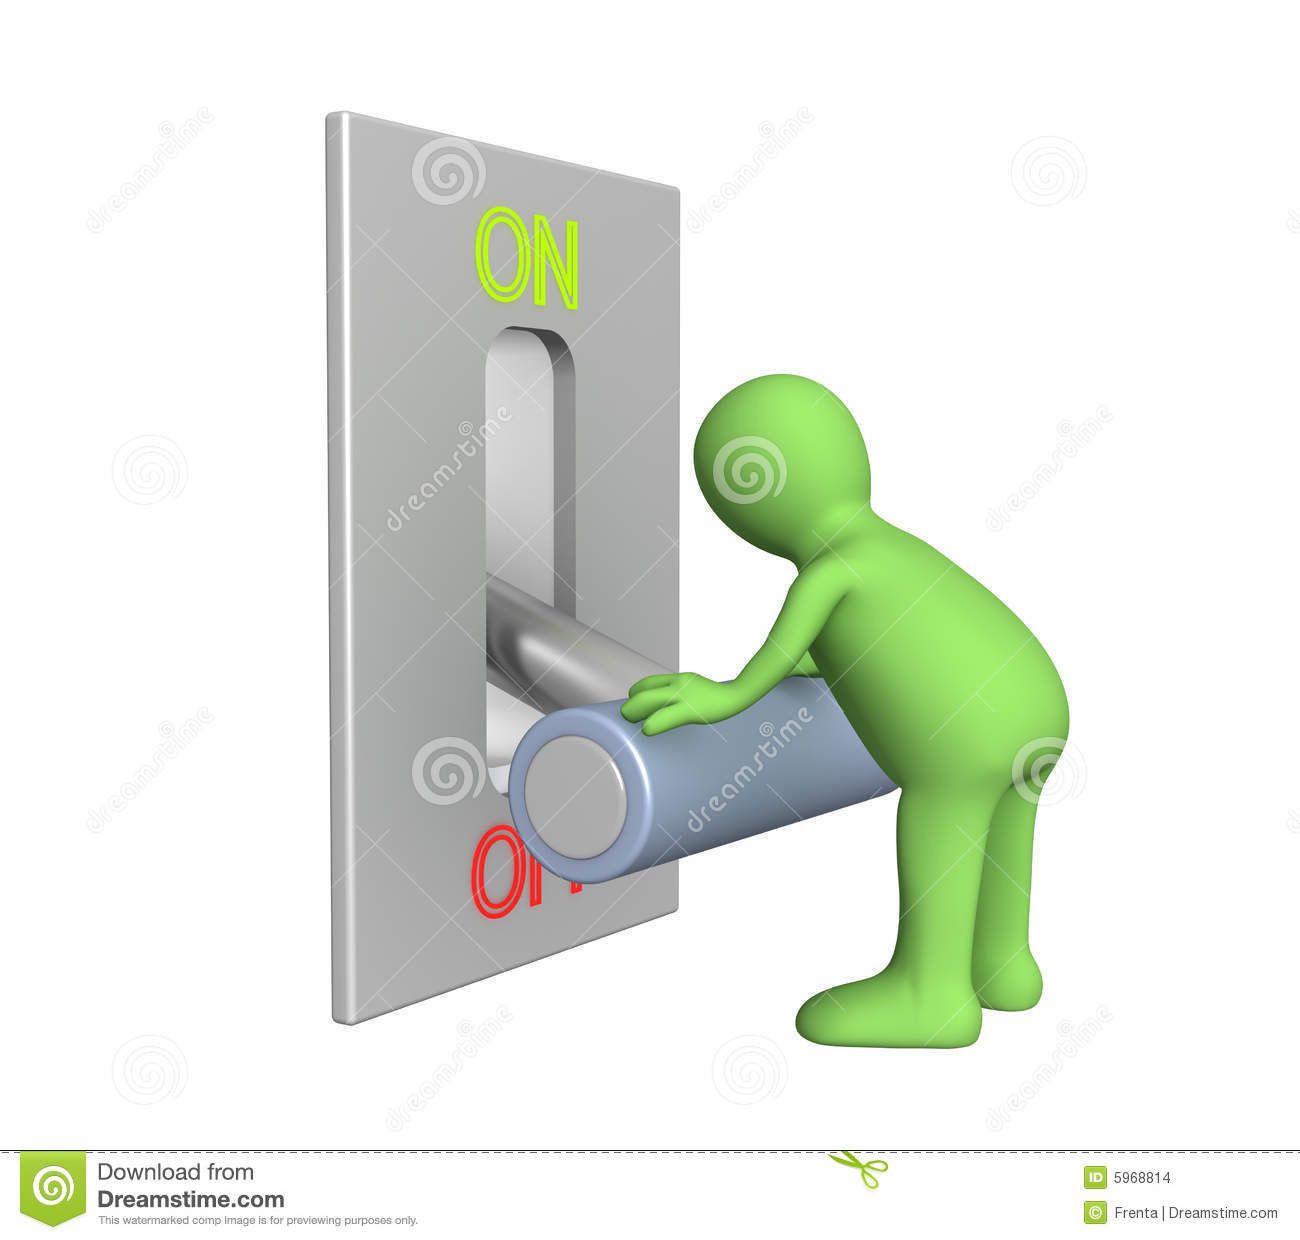
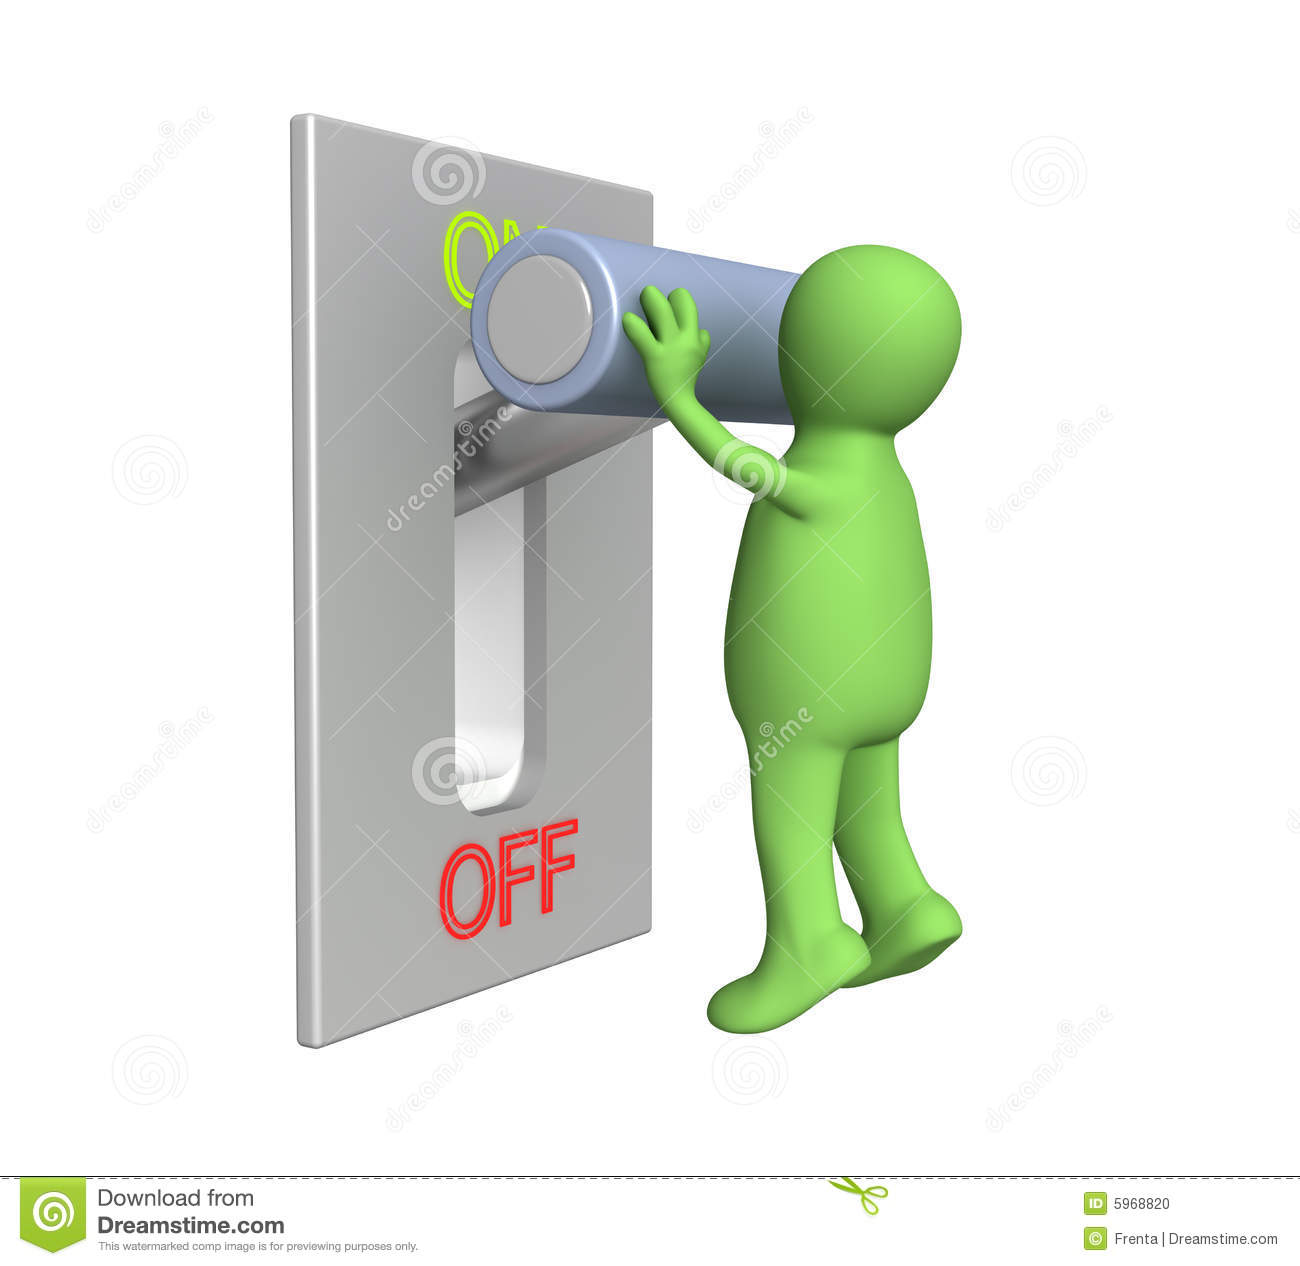
added

Changed region(s): [[0.2154, 0.0919, 0.8308, 0.8581], [0.0, 0.9194, 1.0, 0.9806]]

diff --git a/templates/index.html b/templates/index.html
@@ -11,23 +11,18 @@
 	    
             <div class="col-md-6 col-sm-10 mt-5">
 		
-		{% if led.is_active == True %}
- 			      <a href="{{url_for('light_off')}}" >Light is On<img height='300' width='300' src="{{ url_for('static',filename='light_off.jpg')}}"  alt=""></a>
+		{% if led.is_active == False %}
+ 			      <a href="{{url_for('light_off')}}" >Light is On<img height='300' width='300' src="{{ url_for('static',filename='turn_on.jpg')}}"  alt=""></a>
 		{% else %}
 		
- 	              <a href="{{url_for('light_on')}}" > Light Is Off<img height='300' width='300' src="{{ url_for('static',filename='light_on.jpg')}}"  alt=""> </a>
+ 	              <a href="{{url_for('light_on')}}" > Light Is Off<img height='300' width='300' src="{{ url_for('static',filename='turn_off.jpg')}}"  alt=""> </a>
 		{% endif %}
+
      
             </div>
 	    
 	    
-            <div class="col-md-6 col-sm-10 mt-5">
-		{% if fan.is_active == False %}
- 		              <a href="{{url_for('fan_off')}}">Fan is On <img height='300' width='300' src="{{ url_for('static',filename='turn_off.jpg')}}"  alt=""> </a>
-		{% else %}
- 	               <a href="{{url_for('fan_on')}}">Fan Is Off <img height='300' width='300' src="{{ url_for('static',filename='turn_on.jpg')}}"  alt=""> </a>
-		{% endif %}
-             </div>
+      
 
             
         </div>

diff --git a/application.py b/application.py
@@ -1,0 +1,68 @@
+from flask import Flask,render_template,request,redirect
+from gpiozero import LED
+import requests
+from Adafruit_IO import MQTTClient
+import os
+from flask_cors import cross_origin
+import urllib.request
+
+led=LED(18)
+
+app=Flask(__name__)
+@app.route('/')
+@cross_origin()
+def index():
+    
+    return render_template('index.html',led=led)
+
+@app.route('/light_on')
+@cross_origin()
+def light_on():
+    led.off()
+    return redirect("/")
+
+@app.route('/light_off')
+@cross_origin()
+def light_off():
+    led.on()
+    
+    return redirect("/")
+
+
+"""ADAFRUIT_IO_KEY = 'aio_vIqm07WiwXqcPV0PYvT4I34MW7rO'
+ADAFRUIT_IO_USERNAME = 'icerahi'
+
+def connected(client):
+    print("Connected, Listening changes....")
+    client.subscribe("light")
+
+def disconnected(client):
+    print('Disconnected....')
+    sys.exit(1)
+
+def message(client, feed_id, status):
+    if feed_id == 'light':
+    
+        if status == "on":
+            print("Light On")
+            requests.get('http://localhost/light_on')
+
+         
+        else:
+            print("light Off")
+            requests.get('http://localhost/light_off')
+          
+
+client = MQTTClient(ADAFRUIT_IO_USERNAME, ADAFRUIT_IO_KEY)
+client.on_connect       =   connected
+client.on_disconnect    =   disconnected
+client.on_message       =   message
+client.connect()
+
+
+client.loop_background()
+
+"""
+
+if __name__=='__main__':
+    app.run(debug=True,port=80,host='0.0.0.0')
